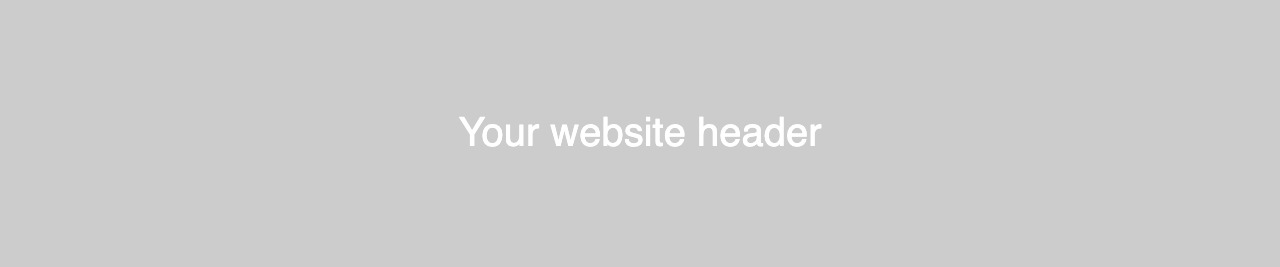
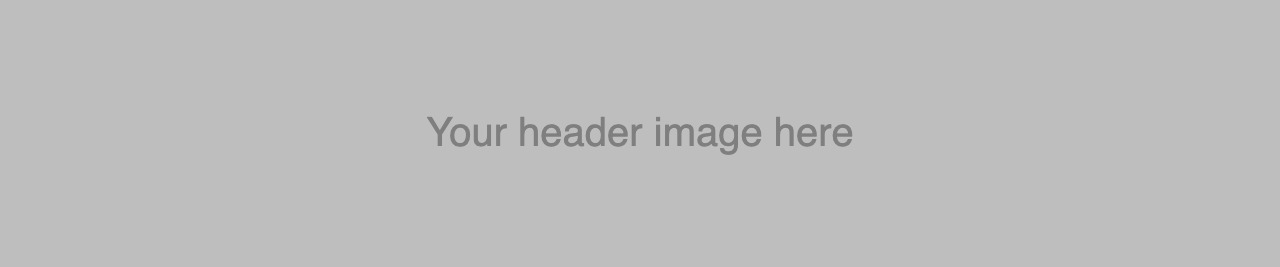
Additional updates.
Update README.md

Update education.md

Update placeholder graphics.

Update placeholder graphics.

Update placeholder graphics.

Update photo.jpg

Update header.jpg

Update header.jpg

Update photo.jpg

Update header.jpg

Update photo.jpg

Update alt text for header image.

Update education.md

Changed region(s): [[0.3125, 0.4195, 0.6875, 0.5993]]

diff --git a/README.md b/README.md
@@ -1,4 +1,4 @@
-![Banner](/images/header.jpg ':class=header-image-full-width')
+![Header image](/images/header.jpg ':class=header-image-full-width')
 
 # Your name here
 
@@ -28,6 +28,8 @@
 
 </div>
 </div>
+
+---
 
 This example Docsify-This Student Portfolio Template is based on the [Markdown Portfolio](https://github.com/thoresonjd/markdown-portfolio-template) template by [@thoresonjd](https://github.com/thoresonjd), as is originally described below:
 

diff --git a/education.md b/education.md
@@ -1,4 +1,4 @@
-![Banner](/images/header.jpg ':class=header-image-full-width')
+![Header image](/images/header.jpg ':class=header-image-full-width')
 
 [« Back to main page](README.md)
 
@@ -35,4 +35,4 @@ GPA: 0.0
 </tr>
 </table>
 
-[Back to main page](README.md)
+[« Back to main page](README.md)

diff --git a/experience.md b/experience.md
@@ -1,4 +1,4 @@
-![Banner](/images/header.jpg ':class=header-image-full-width')
+![Header image](/images/header.jpg ':class=header-image-full-width')
 
 [« Back to main page](README.md)
 

diff --git a/extracurriculars.md b/extracurriculars.md
@@ -1,4 +1,4 @@
-![Banner](/images/header.jpg ':class=header-image-full-width')
+![Header image](/images/header.jpg ':class=header-image-full-width')
 
 [« Back to main page](README.md)
 

diff --git a/projects.md b/projects.md
@@ -1,4 +1,4 @@
-![Banner](/images/header.jpg ':class=header-image-full-width')
+![Header image](/images/header.jpg ':class=header-image-full-width')
 
 [« Back to main page](README.md)
 

diff --git a/qualifications.md b/qualifications.md
@@ -1,4 +1,4 @@
-![Banner](/images/header.jpg ':class=header-image-full-width')
+![Header image](/images/header.jpg ':class=header-image-full-width')
 
 [« Back to main page](README.md)
 
